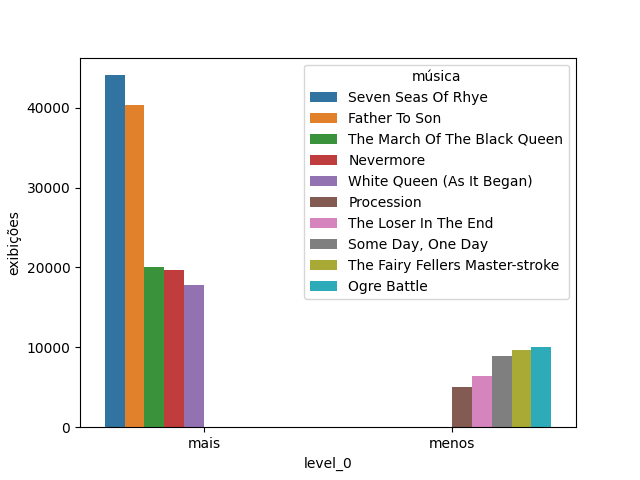
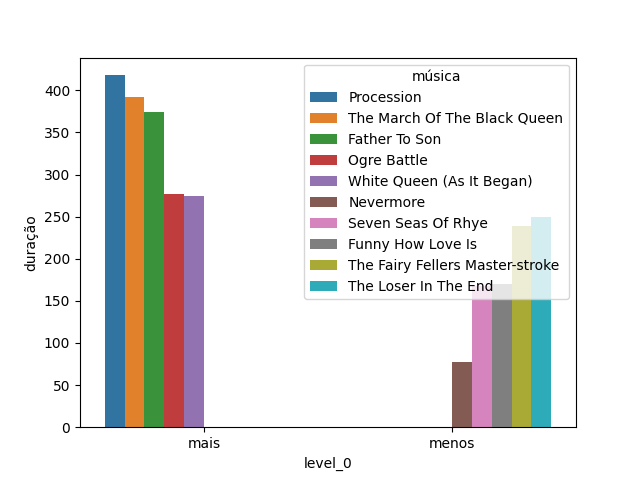
visualizações grupo1

diff --git a/a1.py b/a1.py
@@ -27,10 +27,10 @@ for album in albuns:
    grafico1.figure.savefig(f"./img/Grupo1/Resposta_i/{album}.png")
    grafico1.get_figure().clf()
 
-   mais_exib = df[df["duração"]!=0].loc[album].sort_values(by="duração", ascending=False).head()
-   menos_exib = df[df["duração"]!=0].loc[album].sort_values(by="duração").head()
-   mais_e_menos_exib = pd.concat([mais_ouvidas, menos_ouvidas], keys=["mais", "menos"])
-   grafico2 = sns.barplot(data=mais_e_menos_ouvidas.reset_index(), x="level_0", y="exibições", hue="música")
+   mais_duracao = df[df["duração"]!=0].loc[album].sort_values(by="duração", ascending=False).head()
+   menos_duracao = df[df["duração"]!=0].loc[album].sort_values(by="duração").head()
+   mais_e_menos_duracao = pd.concat([mais_duracao, menos_duracao], keys=["mais", "menos"])
+   grafico2 = sns.barplot(data=mais_e_menos_duracao.reset_index(), x="level_0", y="duração", hue="música")
    grafico2.figure.savefig(f"./img/Grupo1/Resposta_ii/{album}.png")
    grafico2.get_figure().clf()
 
@@ -39,12 +39,30 @@ print(df[df.index.isin(menos_ouvidas_idx, level="música")])
 print(df[df.index.isin(mais_longas_idx, level="música")])
 print(df[df.index.isin(menos_longas_idx, level="música")])
 
-print(df[df["exibições"]!=0].sort_values(by="exibições", ascending=False)["exibições"].head())
-print(df[df["exibições"]!=0].sort_values(by="exibições")["exibições"].head())
-print(df[df["duração"]!=0].sort_values(by="duração", ascending=False)["duração"].head())
-print(df[df["duração"]!=0].sort_values(by="duração")["duração"].head())
+mais_ouvidas = df[df["exibições"]!=0].sort_values(by="exibições", ascending=False)["exibições"].head()
+menos_ouvidas = df[df["exibições"]!=0].sort_values(by="exibições")["exibições"].head()
+grafico1 = sns.barplot(data=mais_ouvidas.reset_index(), x="exibições", y="música", hue="música")
+grafico1.figure.savefig("./img/Grupo1/Resposta_iii/mais_ouvidas.png")
+grafico1.get_figure().clf()
+grafico2 = sns.barplot(data=menos_ouvidas.reset_index(), x="exibições", y="música", hue="música")
+grafico2.figure.savefig("./img/Grupo1/Resposta_iii/menos_ouvidas.png")
+grafico2.get_figure().clf()
 
-print(df.groupby("álbum").sum().sort_values(by=["prêmios", "indicações"], ascending=[False, False]).head())
+mais_longas = df[df["duração"]!=0].sort_values(by="duração", ascending=False)["duração"].head()
+mais_curtas = df[df["duração"]!=0].sort_values(by="duração")["duração"].head()
+grafico1 = sns.barplot(data=mais_longas.reset_index(), x="duração", y="música", hue="música")
+grafico1.figure.savefig("./img/Grupo1/Resposta_iv/mais_longas.png")
+grafico1.get_figure().clf()
+grafico2 = sns.barplot(data=mais_curtas.reset_index(), x="duração", y="música", hue="música")
+grafico2.figure.savefig("./img/Grupo1/Resposta_iv/mais_curtas.png")
+grafico2.get_figure().clf()
+
+premiados = df.groupby("álbum").sum().sort_values(by=["prêmios", "indicações"], ascending=[False, False]).head()
+grafico = premiados.reset_index().plot(x="álbum", y=["prêmios", "indicações"], kind="bar")
+plt.xticks(rotation='horizontal')
+plt.xticks(rotation=12)
+grafico.figure.savefig("./img/Grupo1/Resposta_v/premiados.png")
+grafico.get_figure().clf()
 
 popularidade = sns.jointplot(data=df[df["duração"]>0], x="duração", y="exibições", kind="reg")
 popularidade.figure.savefig("./img/Grupo1/Resposta_vi/popularidade.png")
